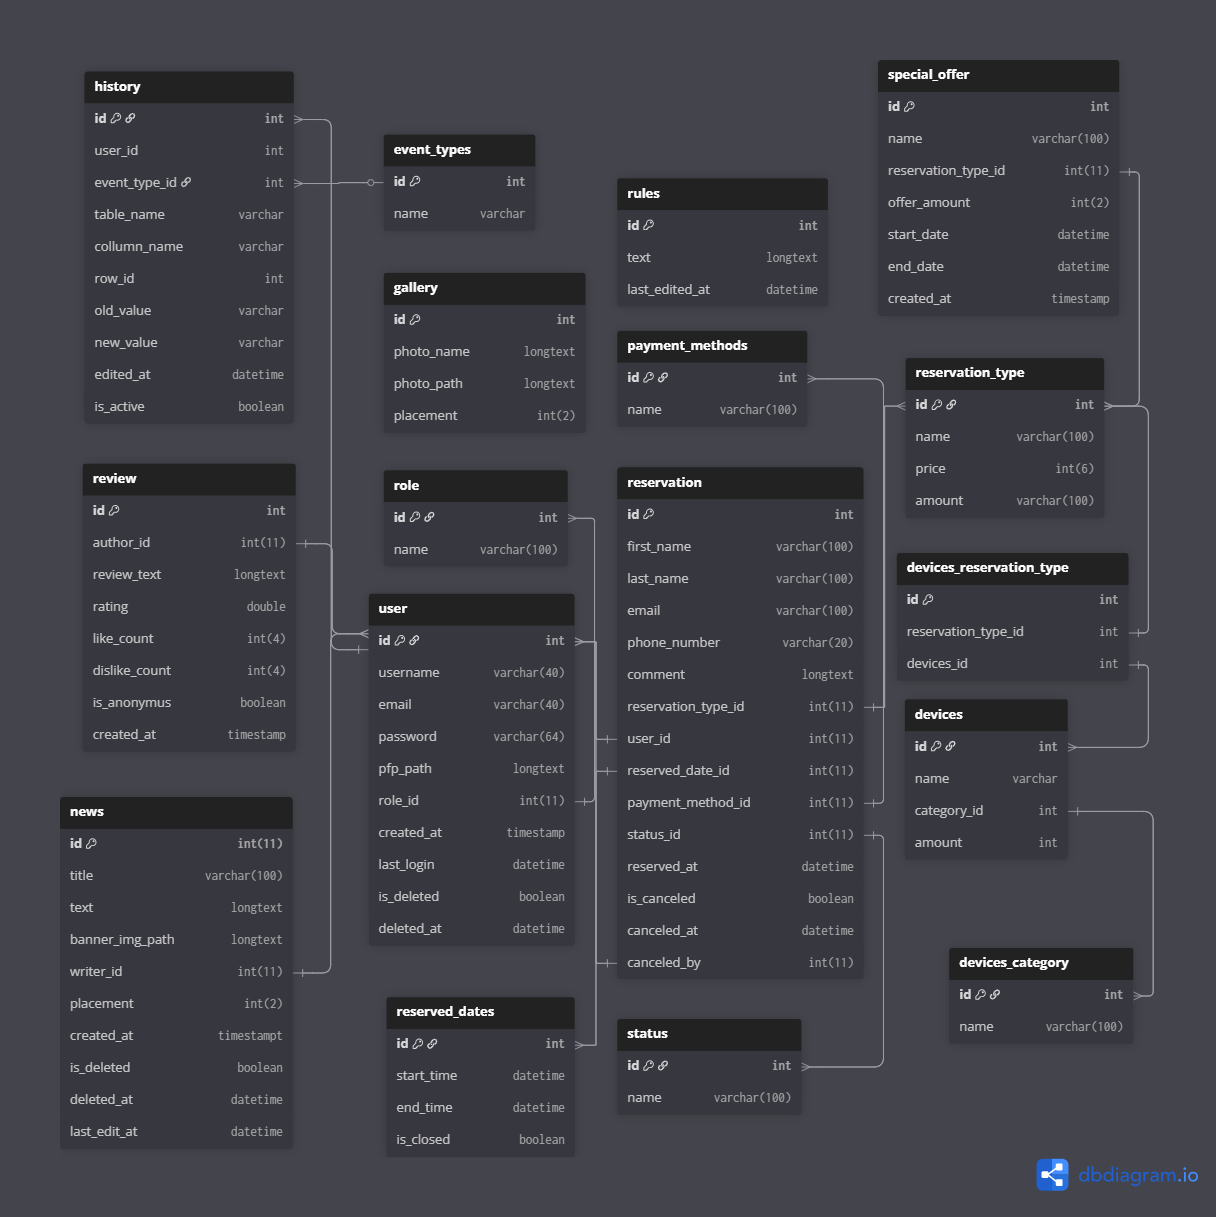
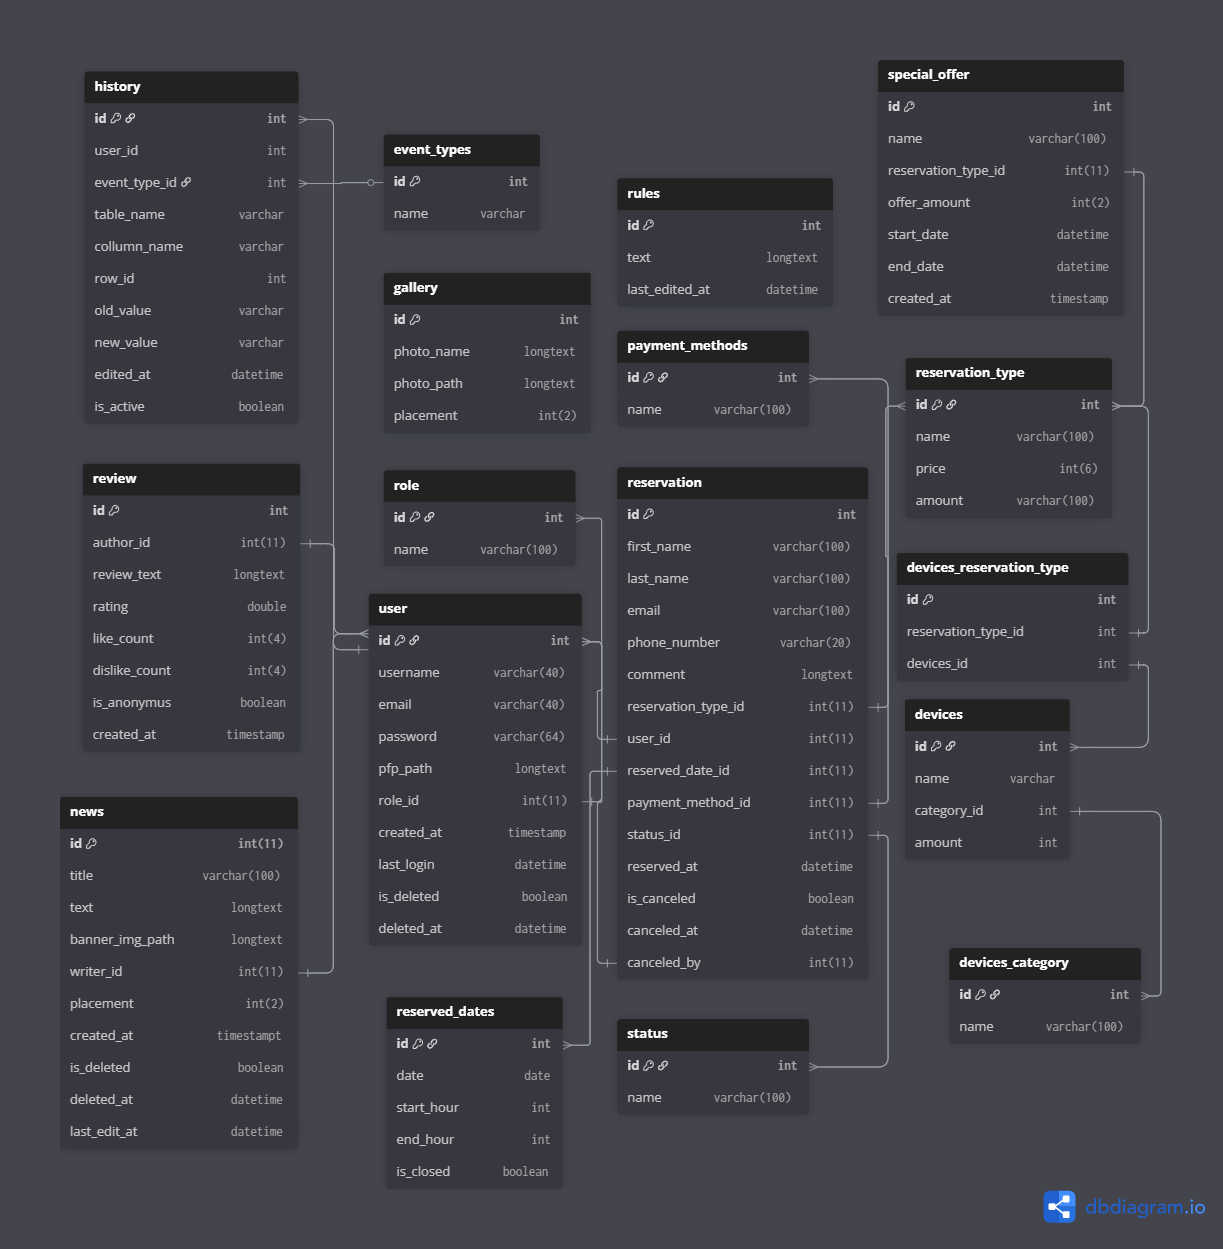
adatbázis hibáinak javitása

diff --git a/appointmentManagementAPI/src/main/java/com/Hbence/appointmentManagementAPI/entity/ReservedDates.java b/appointmentManagementAPI/src/main/java/com/Hbence/appointmentManagementAPI/entity/ReservedDates.java
@@ -3,7 +3,9 @@ package com.Hbence.appointmentManagementAPI.entity;
 import jakarta.persistence.*;
 
 import javax.validation.constraints.NotNull;
+import javax.validation.constraints.Size;
 import java.time.LocalDateTime;
+import java.util.Date;
 
 @Entity
 @Table(name = "reserved_dates")
@@ -14,13 +16,18 @@ public class ReservedDates {
     @Column(name = "id")
     private int id;
 
-    @Column(name = "start_time")
-    @NotNull
-    private LocalDateTime startTime;
+    @Column(name = "date")
+    private Date date;
 
-    @Column(name = "end_time")
+    @Column(name = "start_hour")
     @NotNull
-    private LocalDateTime endTime;
+    @Size(max = 2)
+    private int startHour;
+
+    @Column(name = "end_hour")
+    @NotNull
+    @Size(max = 2)
+    private int endHour;
 
     @Column(name = "is_closed")
     @NotNull
@@ -32,10 +39,10 @@ public class ReservedDates {
     public ReservedDates() {
     }
 
-    public ReservedDates(LocalDateTime startTime, LocalDateTime endTime, Boolean isClosed) {
-        this.startTime = startTime;
-        this.endTime = endTime;
-        this.isClosed = isClosed;
+    public ReservedDates(Date date, int startHour, int endHour) {
+        this.date = date;
+        this.startHour = startHour;
+        this.endHour = endHour;
     }
 
     public int getId() {
@@ -46,20 +53,28 @@ public class ReservedDates {
         this.id = id;
     }
 
-    public LocalDateTime getStartTime() {
-        return startTime;
+    public Date getDate() {
+        return date;
     }
 
-    public void setStartTime(LocalDateTime startTime) {
-        this.startTime = startTime;
+    public void setDate(Date date) {
+        this.date = date;
     }
 
-    public LocalDateTime getEndTime() {
-        return endTime;
+    public int getStartHour() {
+        return startHour;
     }
 
-    public void setEndTime(LocalDateTime endTime) {
-        this.endTime = endTime;
+    public void setStartHour(int startHour) {
+        this.startHour = startHour;
+    }
+
+    public int getEndHour() {
+        return endHour;
+    }
+
+    public void setEndHour(int endHour) {
+        this.endHour = endHour;
     }
 
     public Boolean getClosed() {
@@ -68,5 +83,13 @@ public class ReservedDates {
 
     public void setClosed(Boolean closed) {
         isClosed = closed;
+    }
+
+    public Reservations getReservation() {
+        return reservation;
+    }
+
+    public void setReservation(Reservations reservation) {
+        this.reservation = reservation;
     }
 }
